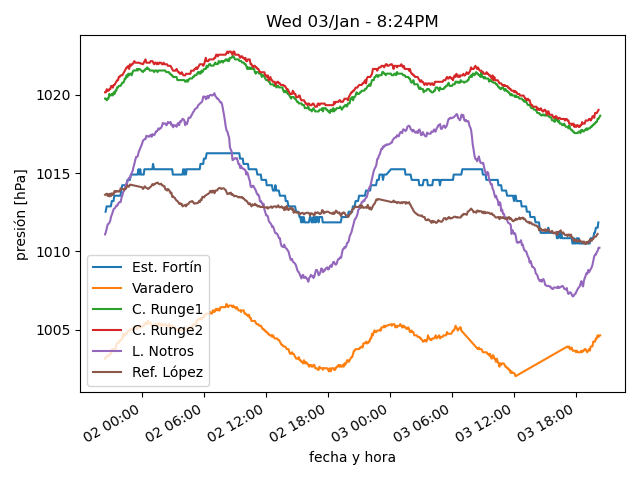
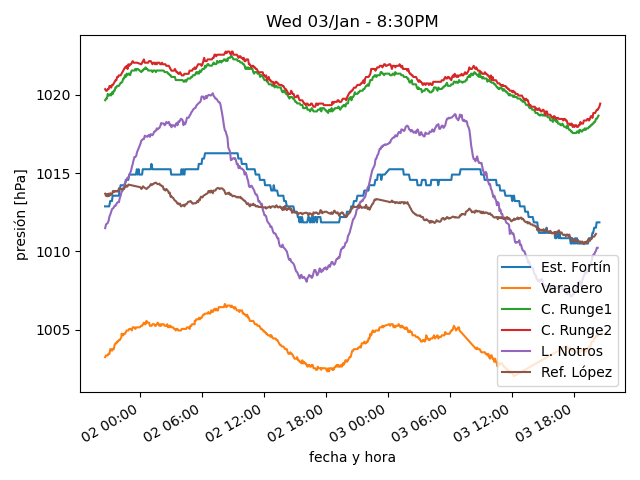
actualiza datos

diff --git a/estaciones/estacion4.html b/estaciones/estacion4.html
@@ -18,32 +18,32 @@
     </tr>
     <tr>
      <td class="stats_data">
-      8:09PM
+      8:29PM
      </td>
     </tr>
     <tr>
      <td class="stats_data">
-      20.7
+      20.1
      </td>
     </tr>
     <tr>
      <td class="stats_data">
-      8.3
+      8.2
      </td>
     </tr>
     <tr>
      <td class="stats_data">
-      44.8
+      46.3
      </td>
     </tr>
     <tr>
      <td class="stats_data">
-      1016.02
+      1016.42
      </td>
     </tr>
     <tr>
      <td class="stats_data">
-      1.7/2.9 SSW
+      2.1/3.2 SW
      </td>
     </tr>
     <tr>
@@ -58,7 +58,7 @@
     </tr>
     <tr>
      <td class="stats_data">
-      24.2
+      20.5
      </td>
     </tr>
    </tbody>

diff --git a/estaciones/estacion1.html b/estaciones/estacion1.html
@@ -18,12 +18,12 @@
     </tr>
     <tr>
      <td class="stats_data">
-      8:08PM
+      8:24PM
      </td>
     </tr>
     <tr>
      <td class="stats_data">
-      23.3
+      22.9
      </td>
     </tr>
     <tr>
@@ -33,7 +33,7 @@
     </tr>
     <tr>
      <td class="stats_data">
-      39.0
+      40.0
      </td>
     </tr>
     <tr>
@@ -43,7 +43,7 @@
     </tr>
     <tr>
      <td class="stats_data">
-      16.9/21.7 NW
+      12.3/25.2 WNW
      </td>
     </tr>
     <tr>
@@ -58,7 +58,7 @@
     </tr>
     <tr>
      <td class="stats_data">
-      95.0
+      72.0
      </td>
     </tr>
    </tbody>
